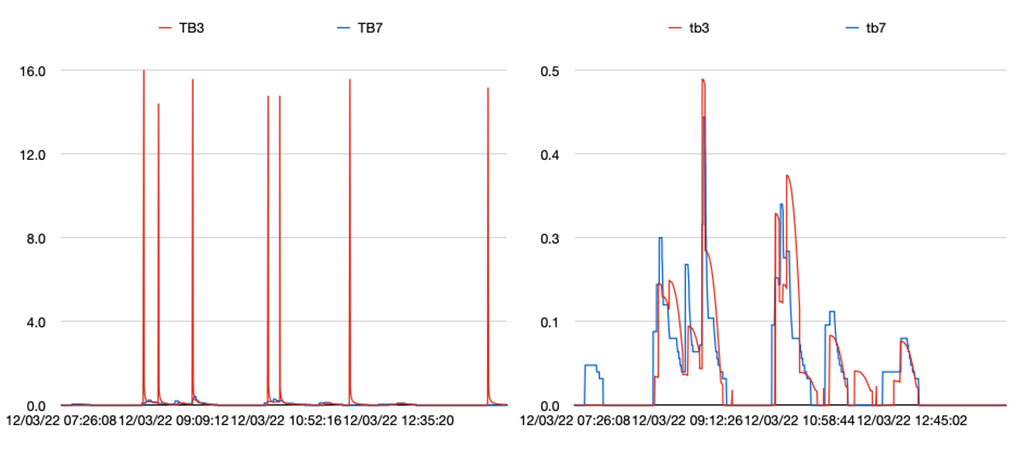
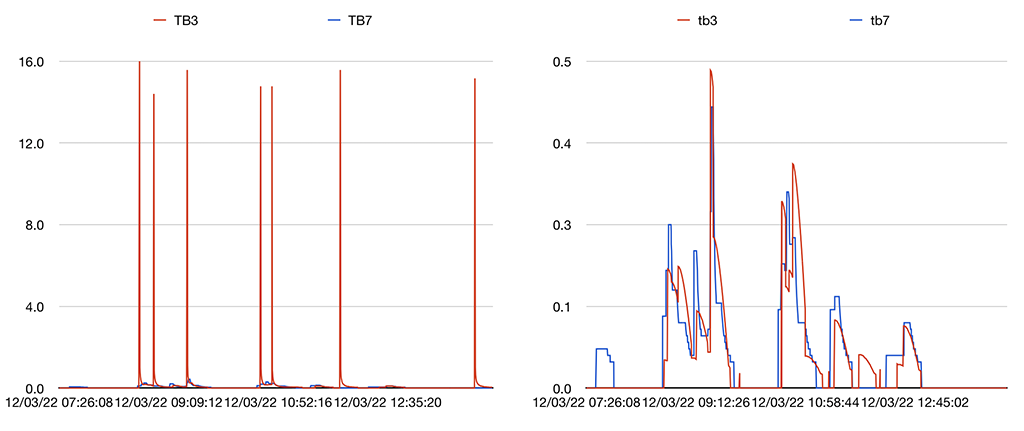
Release v0.20

diff --git a/bin/user/rainrate.py b/bin/user/rainrate.py
@@ -29,6 +29,7 @@ tipping bucket rain gauge as a reference (for rain rate).
 """
 
 import logging
+import math
 import sys
 import time
 
@@ -48,7 +49,7 @@ from weewx.engine import StdService
 # get a logger object
 log = logging.getLogger(__name__)
 
-RAINRATE_VERSION = '0.19'
+RAINRATE_VERSION = '0.20'
 
 if sys.version_info[0] < 3 or (sys.version_info[0] == 3 and sys.version_info[1] < 7):
     raise weewx.UnsupportedFeature(
@@ -239,12 +240,12 @@ class RainRate(StdService):
             # 3600 * last_tip_amount / (time_of_last_tip - time_of_next_to_last_tip)
             rainRate1 = 3600 * rain_entries[0].amount / (rain_entries[0].timestamp - rain_entries[1].timestamp)
             rainRate2 = 3600 * rain_entries[0].amount / (pkt['dateTime'] - rain_entries[1].timestamp)
-            # As time passes, rainRate2 becomes more prominent
+            # As time passes, rainRate2 becomes more prominent (y=x^sqrt(2))
             secs_since_last_tip = pkt['dateTime'] - rain_entries[0].timestamp
             if secs_since_last_tip >= 900.0:
                 factor1, factor2 = 0.0, 1.0
             else:
-                factor2 = (secs_since_last_tip / 900.0) ** 2
+                factor2 = (secs_since_last_tip / 900.0) ** math.sqrt(2)
                 factor1 = 1 - factor2
             pkt['rainRate'] = rainRate1 * factor1 + rainRate2 * factor2
         log.debug('new_loop(%d): Added/updated pkt[rainRate] of %f' % (pkt['dateTime'], pkt['rainRate']))

diff --git a/install.py b/install.py
@@ -31,7 +31,7 @@ def loader():
 class RainRateInstaller(ExtensionInstaller):
     def __init__(self):
         super(RainRateInstaller, self).__init__(
-            version = "0.19",
+            version = "0.20",
             name = 'rainrate',
             description = 'Inserts/updates rainRate observations in loop packets.',
             author = "John A Kline",

diff --git a/README.md b/README.md
@@ -73,16 +73,16 @@ event; rather, it's the one before that.
 
 The first rate (the rate between two tips) plays a much greater influence on the rate
 when a tip has just occurred.  Over time, the second rate becomes the dominant influence
-over the rate.
+over the rate.  The influence of the second rate follows the slope of y=x^sqrt(2).
 
 # Installation Instructions
 
-1. Download the lastest release, weewx-rainrate-0.19.zip, from the
+1. Download the lastest release, weewx-rainrate-0.20.zip, from the
    [GitHub Repository](https://github.com/chaunceygardiner/weewx-rainrate).
 
 1. Run the following command.
 
-   `sudo /home/weewx/bin/wee_extension --install weewx-rainrate-0.19.zip`
+   `sudo /home/weewx/bin/wee_extension --install weewx-rainrate-0.20.zip`
 
    Note: this command assumes weewx is installed in /home/weewx.  If it's installed
    elsewhere, adjust the path of wee_extension accordingly.
